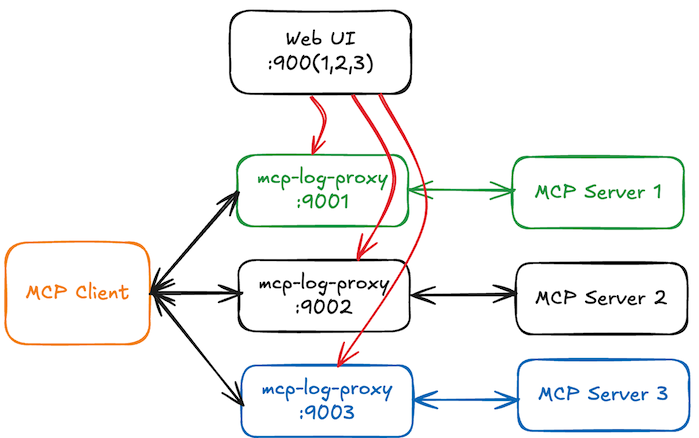
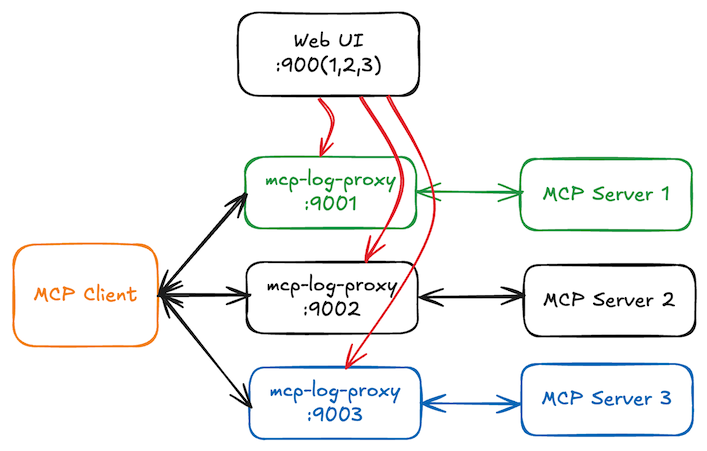
add flow of multi

Changed region(s): [[0.0, 0.0, 0.9914, 1.0], [0.5708, 0.0297, 0.6009, 0.2078], [0.2704, 0.5046, 0.3004, 0.5639]]

diff --git a/README.md b/README.md
@@ -98,6 +98,8 @@ Locate the binaries to get the correct paths.
 
 ### Multiple proxies
 
-All running mcp-log-proxy processes will register themselves in `.mcp-log-proxy-instances.json` located in your home directory.
+![multi flow](doc/multiple_proxies.png)
+
+All running mcp-log-proxy processes will register themselves in `.mcp-log-proxy-instances.json` located in your home directory. On the web page, you can use the selector to switch to another proxy instance.
 
 &copy; 2025, https://ernestmicklei.com. MIT License.
